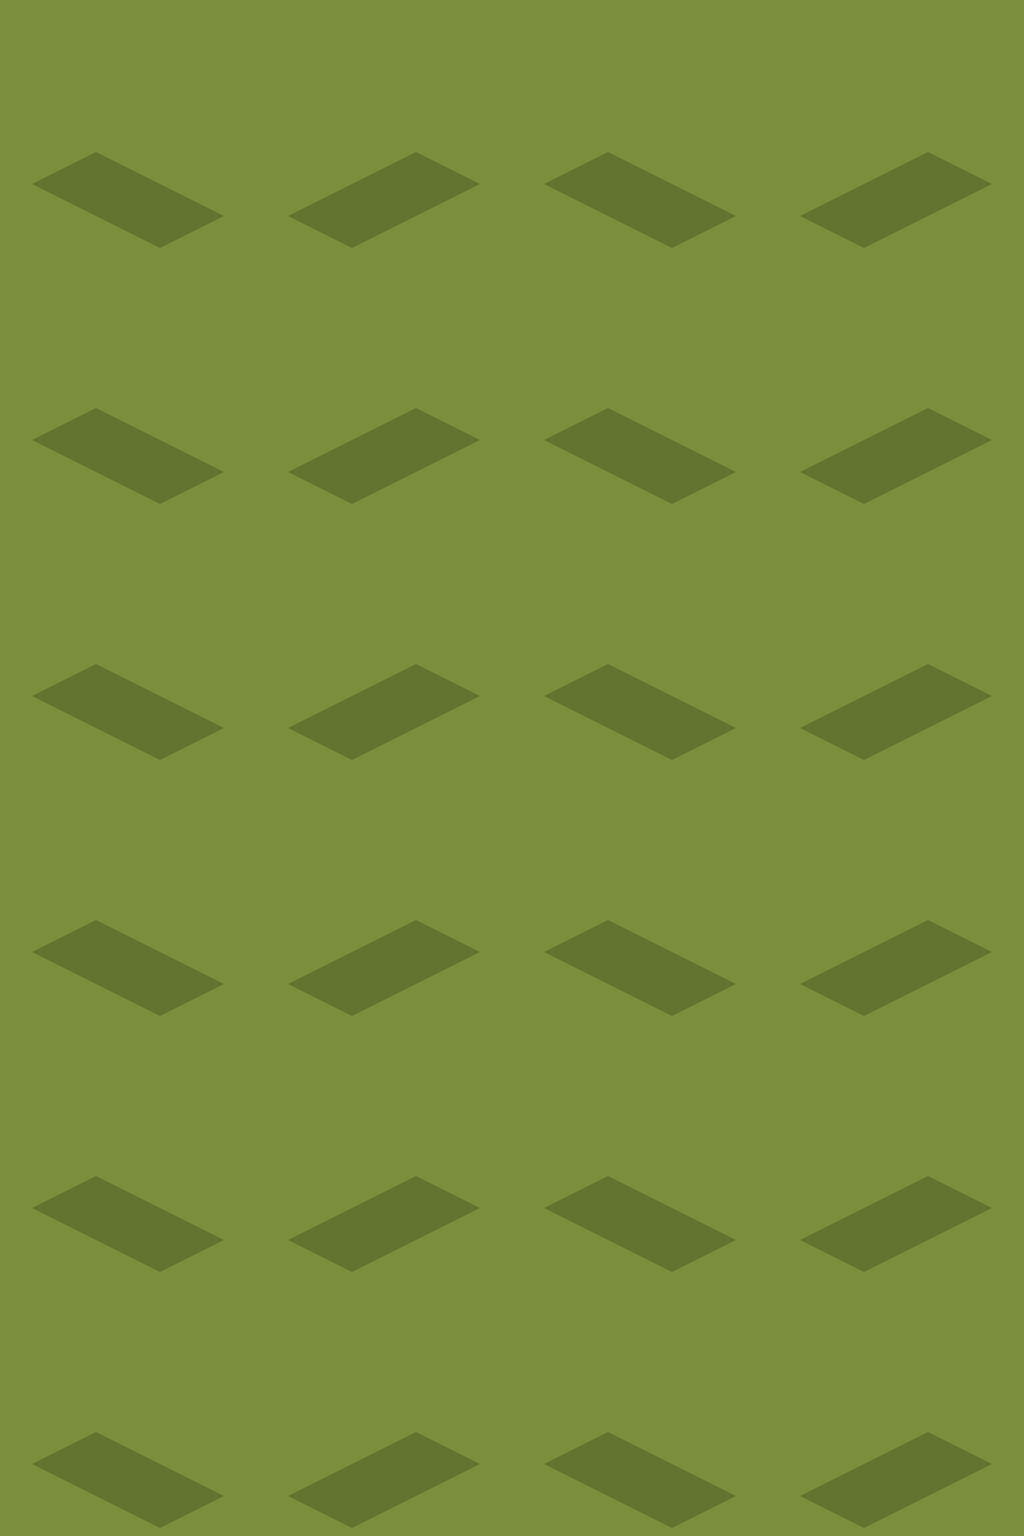
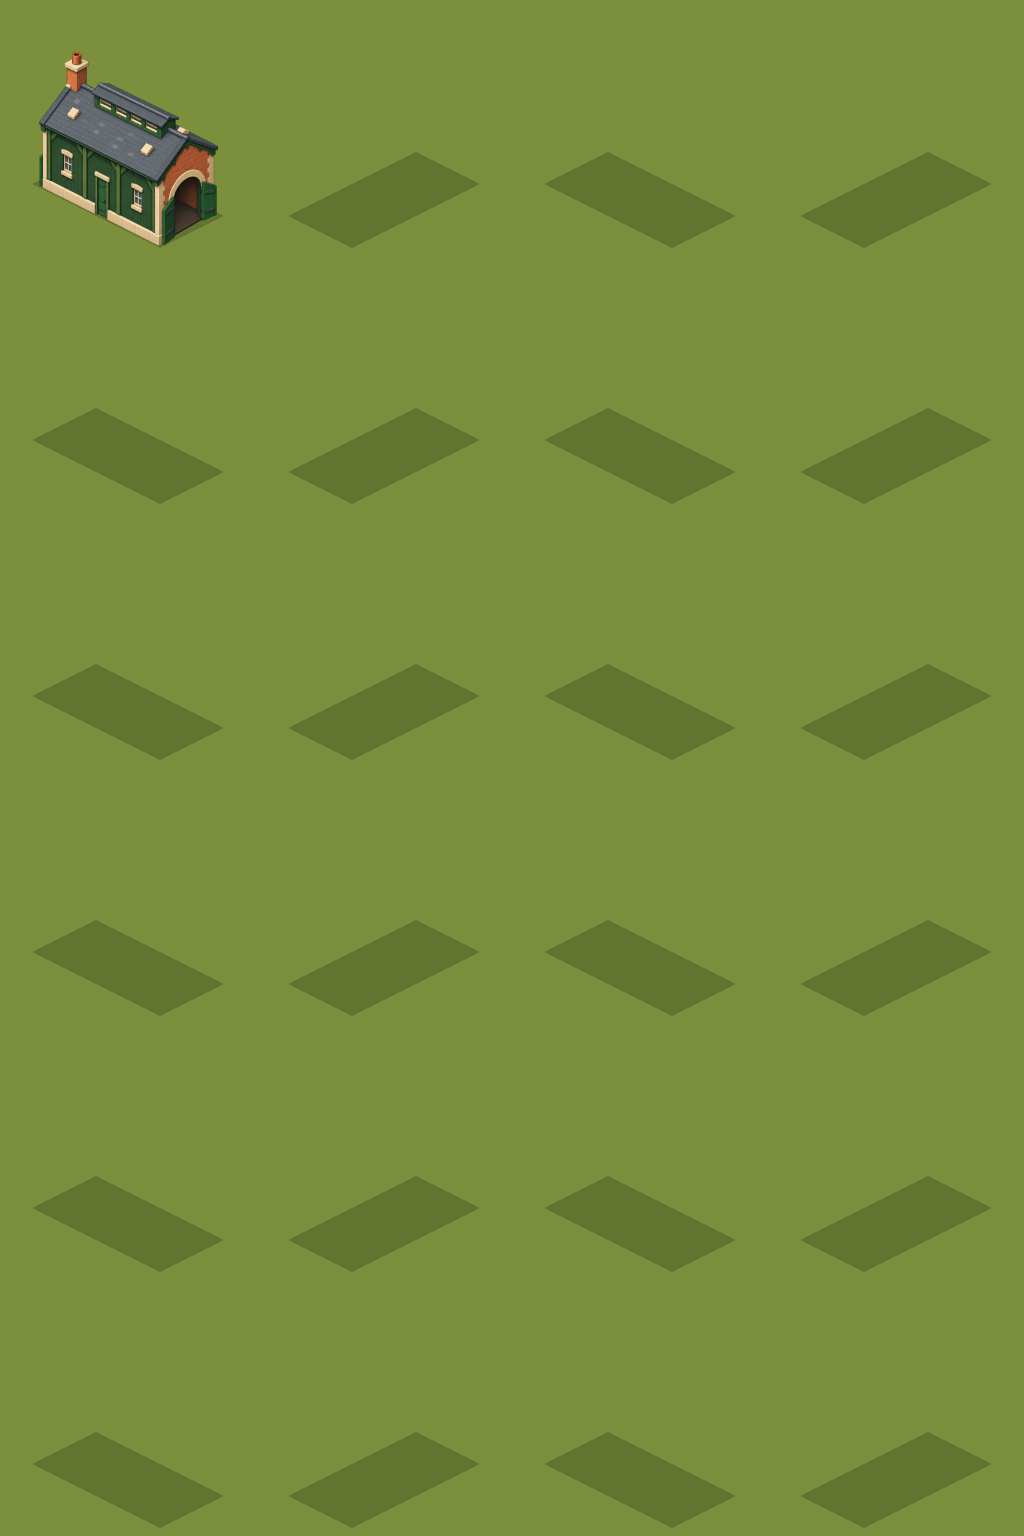
Art: narrow depot solid-portal r0 preserved after checker conflict
Attempt7 passes outline and height but light misses. Legacy checker demands transparency contrary to revised opaque floor prompt. No view accepted, group stopped.

Changed region(s): [[0.0312, 0.0312, 0.2188, 0.1562]]

diff --git a/assets/source/buildings-v2/review/index.html b/assets/source/buildings-v2/review/index.html
@@ -108,11 +108,11 @@
 </section>
 <section id="depot_narrow">
   <h2>Narrow Depot <small>depot_narrow</small></h2>
-  <p>0 of 24 made, 4 rejected, 20 not made (built on a picture that failed). Rows: Steam, Diesel, Electric, Nuclear, Magnetic, Hyper. Columns: r0 (front lower left), r1, r2, r3 (front lower right).</p>
+  <p>0 of 24 made. Rows: Steam, Diesel, Electric, Nuclear, Magnetic, Hyper. Columns: r0 (front lower left), r1, r2, r3 (front lower right).</p>
   <img src="depot_narrow.png" alt="Narrow Depot: every age and view" loading="lazy" />
   <p><a href="depot_narrow-angles.png">The same sheet with the footprint and the wall lines drawn in</a>. Ground lines as measured, lower left / lower right (the game's are 0.50 / -0.50), marked where the camera is further than 2° from the game's:</p>
-  <table><tr><th></th><th>r0</th><th>r1</th><th>r2</th><th>r3</th><th>sizes apart</th></tr><tr><th>Steam</th><td class="off">0.52 / -0.34</td><td class="none">-</td><td class="none">-</td><td class="none">-</td><td class="none">-</td></tr><tr><th>Diesel</th><td class="none">-</td><td class="none">-</td><td class="none">-</td><td class="none">-</td><td class="none">-</td></tr><tr><th>Electric</th><td class="none">-</td><td class="none">-</td><td class="none">-</td><td class="none">-</td><td class="none">-</td></tr><tr><th>Nuclear</th><td class="none">-</td><td class="none">-</td><td class="none">-</td><td class="none">-</td><td class="none">-</td></tr><tr><th>Magnetic</th><td class="none">-</td><td class="none">-</td><td class="none">-</td><td class="none">-</td><td class="none">-</td></tr><tr><th>Hyper</th><td class="none">-</td><td class="none">-</td><td class="none">-</td><td class="none">-</td><td class="none">-</td></tr></table>
-  <ul><li><code>depot_narrow-a0-r0</code> rejected: camera off by 6.4°: it looks down from 24.8° where the game looks down from 30° and the building is turned 6.4° towards its lower-right wall (the wall feet slope 0.52 and -0.34, the game's 0.50 and -0.50) <em>(C35a blockout: new attempts4-6 all refused for outline, best IoUs .93679,.94563,.94511 &gt;=.80; p95 picture72.325,61.467,62.090 &gt;24; max130.472,118.612,118.039 &gt;48. Closest raw attempt6, no accepted r0; continue next view per prompt.)</em></li><li><code>depot_narrow-a0-r1</code> rejected <em>(C35a blockout: attempts1-3 refused despite IoUs .94252,.94309,.94276: p95 picture54.492,55.470,56.146&gt;24; max110.464,112.124,110.859&gt;48. Closest raw attempt1; no accepted r1.)</em></li><li><code>depot_narrow-a0-r2</code> rejected <em>(C35a blockout: attempts1-3 refused despite IoUs .95587,.94773,.94249: p95 picture54.838,59.473,64.872 &gt;24; max109.313,114.930,120.217 &gt;48. Attempt1 wrong timber endwall. Closest overall raw attempt2; no accepted r2.)</em></li><li><code>depot_narrow-a0-r3</code> rejected <em>(C35a blockout: attempts1-3 refused: best IoUs .93237,.93632,.93813; p95 picture91.389,68.614,71.566 &gt;24,max145.446,123.380,126.446 &gt;48. Attempt1 wrong endwall timber; attempt2 height .32018 below15percentlimit .32722. Closest overall raw attempt3; no accepted r3.)</em></li></ul>
+  <table><tr><th></th><th>r0</th><th>r1</th><th>r2</th><th>r3</th><th>sizes apart</th></tr><tr><th>Steam</th><td class="">0.53 / -0.46</td><td class="none">-</td><td class="none">-</td><td class="none">-</td><td class="none">-</td></tr><tr><th>Diesel</th><td class="none">-</td><td class="none">-</td><td class="none">-</td><td class="none">-</td><td class="none">-</td></tr><tr><th>Electric</th><td class="none">-</td><td class="none">-</td><td class="none">-</td><td class="none">-</td><td class="none">-</td></tr><tr><th>Nuclear</th><td class="none">-</td><td class="none">-</td><td class="none">-</td><td class="none">-</td><td class="none">-</td></tr><tr><th>Magnetic</th><td class="none">-</td><td class="none">-</td><td class="none">-</td><td class="none">-</td><td class="none">-</td></tr><tr><th>Hyper</th><td class="none">-</td><td class="none">-</td><td class="none">-</td><td class="none">-</td><td class="none">-</td></tr></table>
+  <ul><li><code>depot_narrow-a0-r0</code> pending: the portal is not open to the ground (over a stretch 0.3 of the portal's width the ground is open 0.03 of that width deep, and 0.3 is asked): a floor, a threshold, an apron, rails, a door leaf or a post stands where the game's rails run in, or the portal is too narrow. Inside the doorway paint the hall's inner wall, in shadow. Only the floor is left out: below that inner wall the ground inside the doorway, up to about a third of the doorway's height, and the ground before it stay unpainted and transparent, so that the game's rails show there. <em>(repaint over the solid-portal blockout)</em></li></ul>
 </section>
 <section id="windmill">
   <h2>Windmill <small>windmill</small></h2>

diff --git a/assets/source/buildings-v2/raw/C35a-result-run4.md b/assets/source/buildings-v2/raw/C35a-result-run4.md
@@ -1,0 +1,21 @@
+# C35a queue launch 4: stopped at the portal checker conflict
+
+Zero accepted views. One new image call: r0 attempt7; r1/r3/r2 were not started. The amended Core-review-2 prompt provides three new attempts per view; that budget was not exhausted or silently reset. The group stopped on the README unresolved-prompt/check-conflict rule. No queue set-generated call was attempted, so this is not a queue status refusal. No checker, gate, accepted record or returned image was changed to bypass a test.
+
+Preflight: all12 revised scaffold files exported from origin/claude/art-scaffolds-review-2 to an external G: folder; all8 PNGs1024x1024, all4 JSONs job/view/canvas valid and dimensions.portal_floor equals opaque dark floor slab and sill. Required main-line depot picture exists. Own lane was clean and fast-forward current. All4 views were put pending in order r0,r1,r3,r2; commands succeeded. Earlier twelve refused blockout returns and first three free r0 returns remain byte-identical and were never attached. C21a,C23a,C4e superseded/skipped.
+
+r0 attempt7 requested1024x1024 transparent RGBA; returned1254x1254. Original returned bytes are in raw/depot_narrow-a0-r0-attempt-7.png and the pending working candidate depot_narrow/depot_narrow-a0-r0.png. The latter is pending and explicitly NOT accepted. The exact prompt, ordered references, full dimensions and geometry are recorded in raw/returns.json and prompts.json C35a_run4. Printed queue text still requested transparent doorway ground; the exact amended CORE REVIEW2 opaque floor/sill requirement was appended as a winning override along with THE SHED/view/paint-over paragraphs.
+
+| Attempt | Base span | Held returned | k | IoU at s0 | s0 | f | dx | dy | Best IoU | p95 picture/scaffold | Maximum | Wall/base | Scaffold | White/amber |
+| --- | --- | --- | --- | --- | --- | --- | --- | --- | --- | --- | --- | --- | --- | --- |
+| r0/7 | 898 | 865.3090 | 0.963596 | 0.959356 | 1.224609375 | 1.010299 | -2.9886 | -12.2784 | 0.976248 | 8.891 / 8.891 | 19.881 | 0.346548 | .384964 | 1157/0 |
+
+Outline passes unchanged rule: IoU>=.90, both p95<=24canvas px, max<=48. The silhouette is alpha>128, enclosed holes filled,2canvas-pixel opening, best uniform f in[.85,1.15] plus translation (analysis in memory only). Wall height read near eaves y884, foot1195.2:311.2px/base898=.346548, inside scaffold272/706.56=.384964 +/-15percent. Feet w(178,883.4),s(766.7,1195.2),e(1076,1052.2); slopes .530/-.462, camera1.9deg reported only. Held guide width706.6, scaled to865.309returnedpx; width never a refusal. Original main-line depot highlight reference2123white/0amber; picture1157/0, reported only.
+
+By eye on raw and alpha-composited .look/grass review: solid opaque dark portal floor and sill correctly fill the old notch; one arch on the right end, crew door plus two windows on the long left front, full crisp timber/brick/stone/slate/vents repaint, family identity, no plinth/ground/shadow/people/rails/smoke. The lower-right brick end wall remains brighter than the green lower-left wall: LIGHT TEST MISSES. This is not accepted even though outline and height pass. No glow was inferred from RGB under zero alpha. There is no changed prior audit to retract.
+
+Established infrastructure conflict (no guess, no bypass): amended C35a CORE REVIEW2 rule1 and THE SHED require opaque dark floor and sill out to the end-wall foot line, no transparent doorway pixels. Existing tools/building-check.mjs437 makes closed=those(ground,v=>v<limit.closed); lines445–455 reject such a portal and demand that its ground remain transparent. Line434 explicitly constructs the old Only the floor is left out / unpainted and transparent instruction. The floor requirement is incompatible with the new prompt.
+
+Required CLOSE diagnostic building-check --family depot_narrow reproduces this:1checked,1failed,23notmade, exit1. Message: portal not open to ground, over0.3 of width ground open0.03deep while0.3isasked; says floor/threshold/apron stands where rails run and to leave floor transparent. This is a CHECK DIAGNOSTIC FAILURE; queue set-generated was not attempted. building-sheets --family depot_narrow generated review/depot_narrow.png, inspected: pending r0 candidate shown, other views empty. Queue remains pending (r0 has6 previously settled attempts plus in-hand attempt7; exact generation count is in returns.json), r1/r3/r2 pending without new calls.
+
+Stop rule: README If the prompt,a tool or a check contradicts these rules in a way you cannot resolve ... stop that group,write the ledger entry,and say what the conflict is. Core must reconcile the legacy transparent-ground check with the opaque-floor prompt before a new authorized retry; light ordering also needs correction. No code changed and no application tests run. git diff --check validates scoped text. Only own lane assets/source/buildings-v2 and own ledger entry were changed; all temp/runtime writes on G:, automatic image-tool C: output copied byte-for-byte and left untouched per README.
